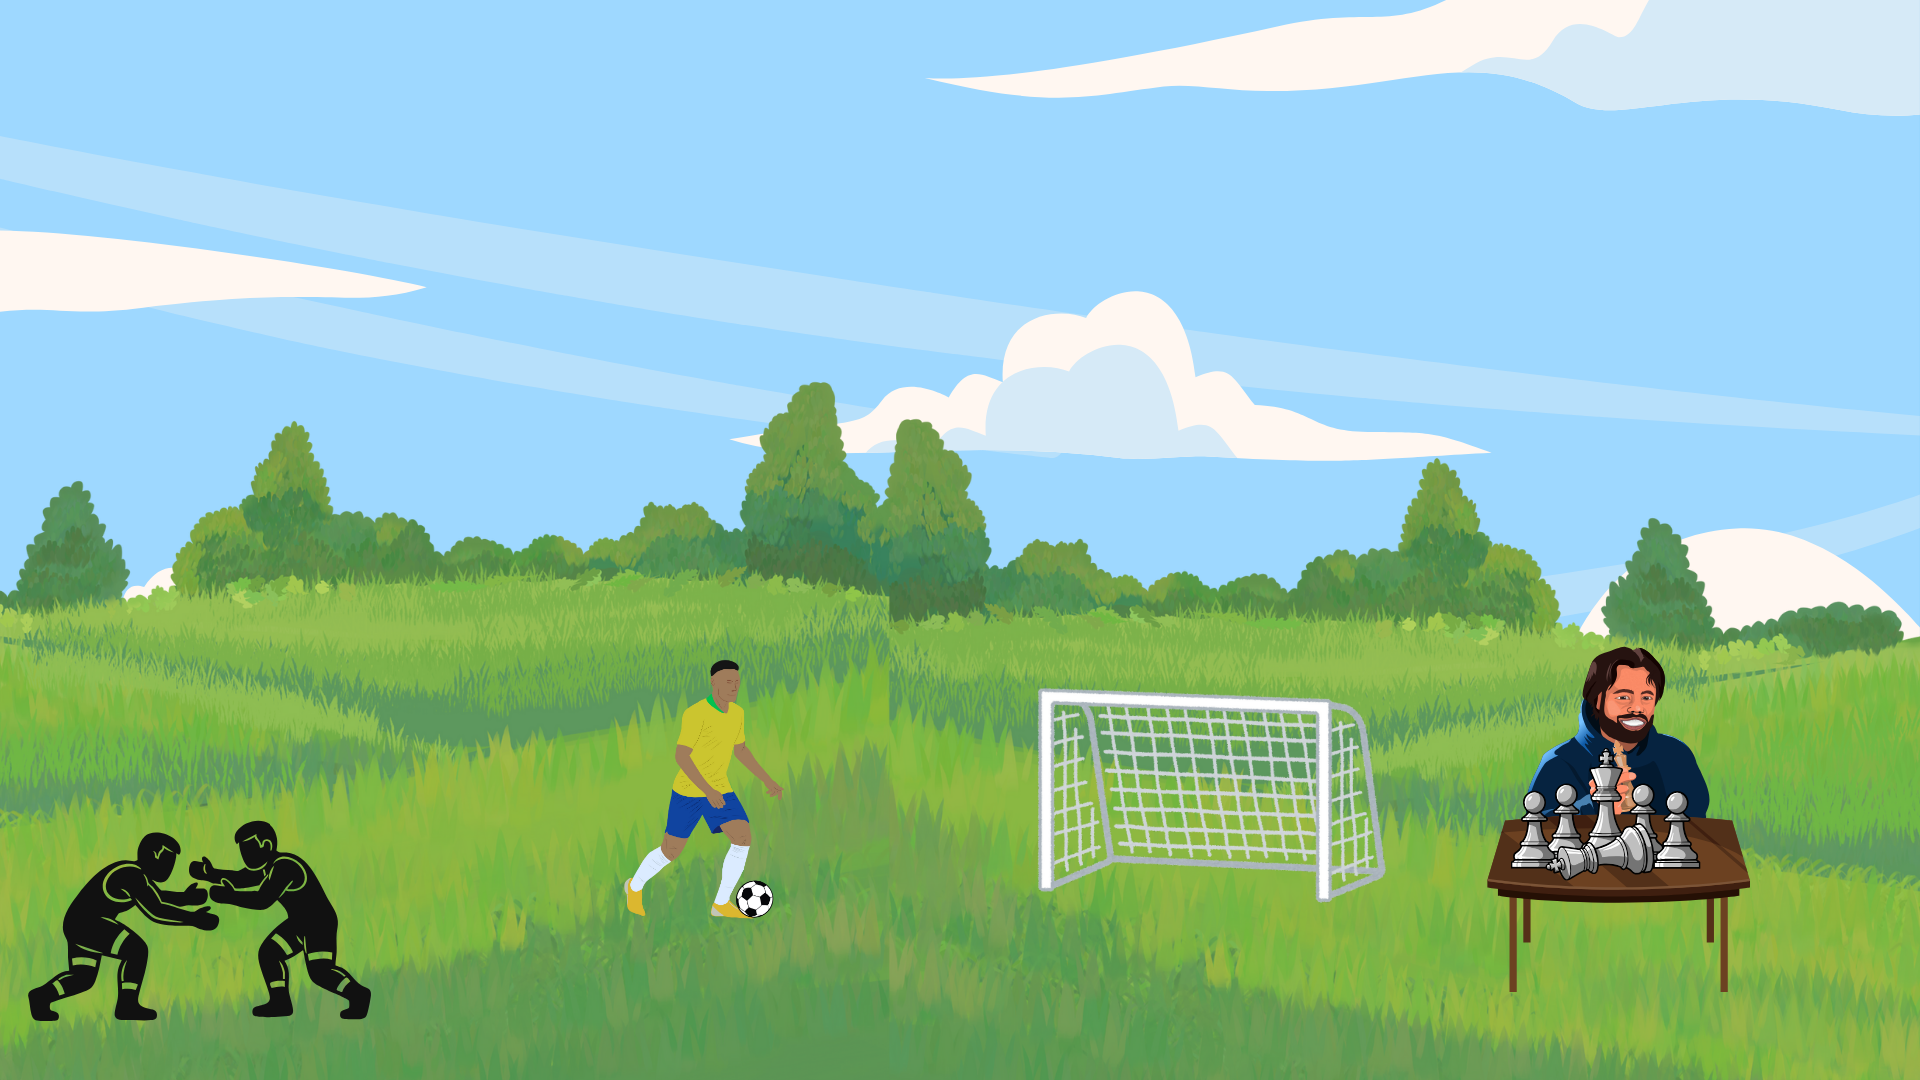
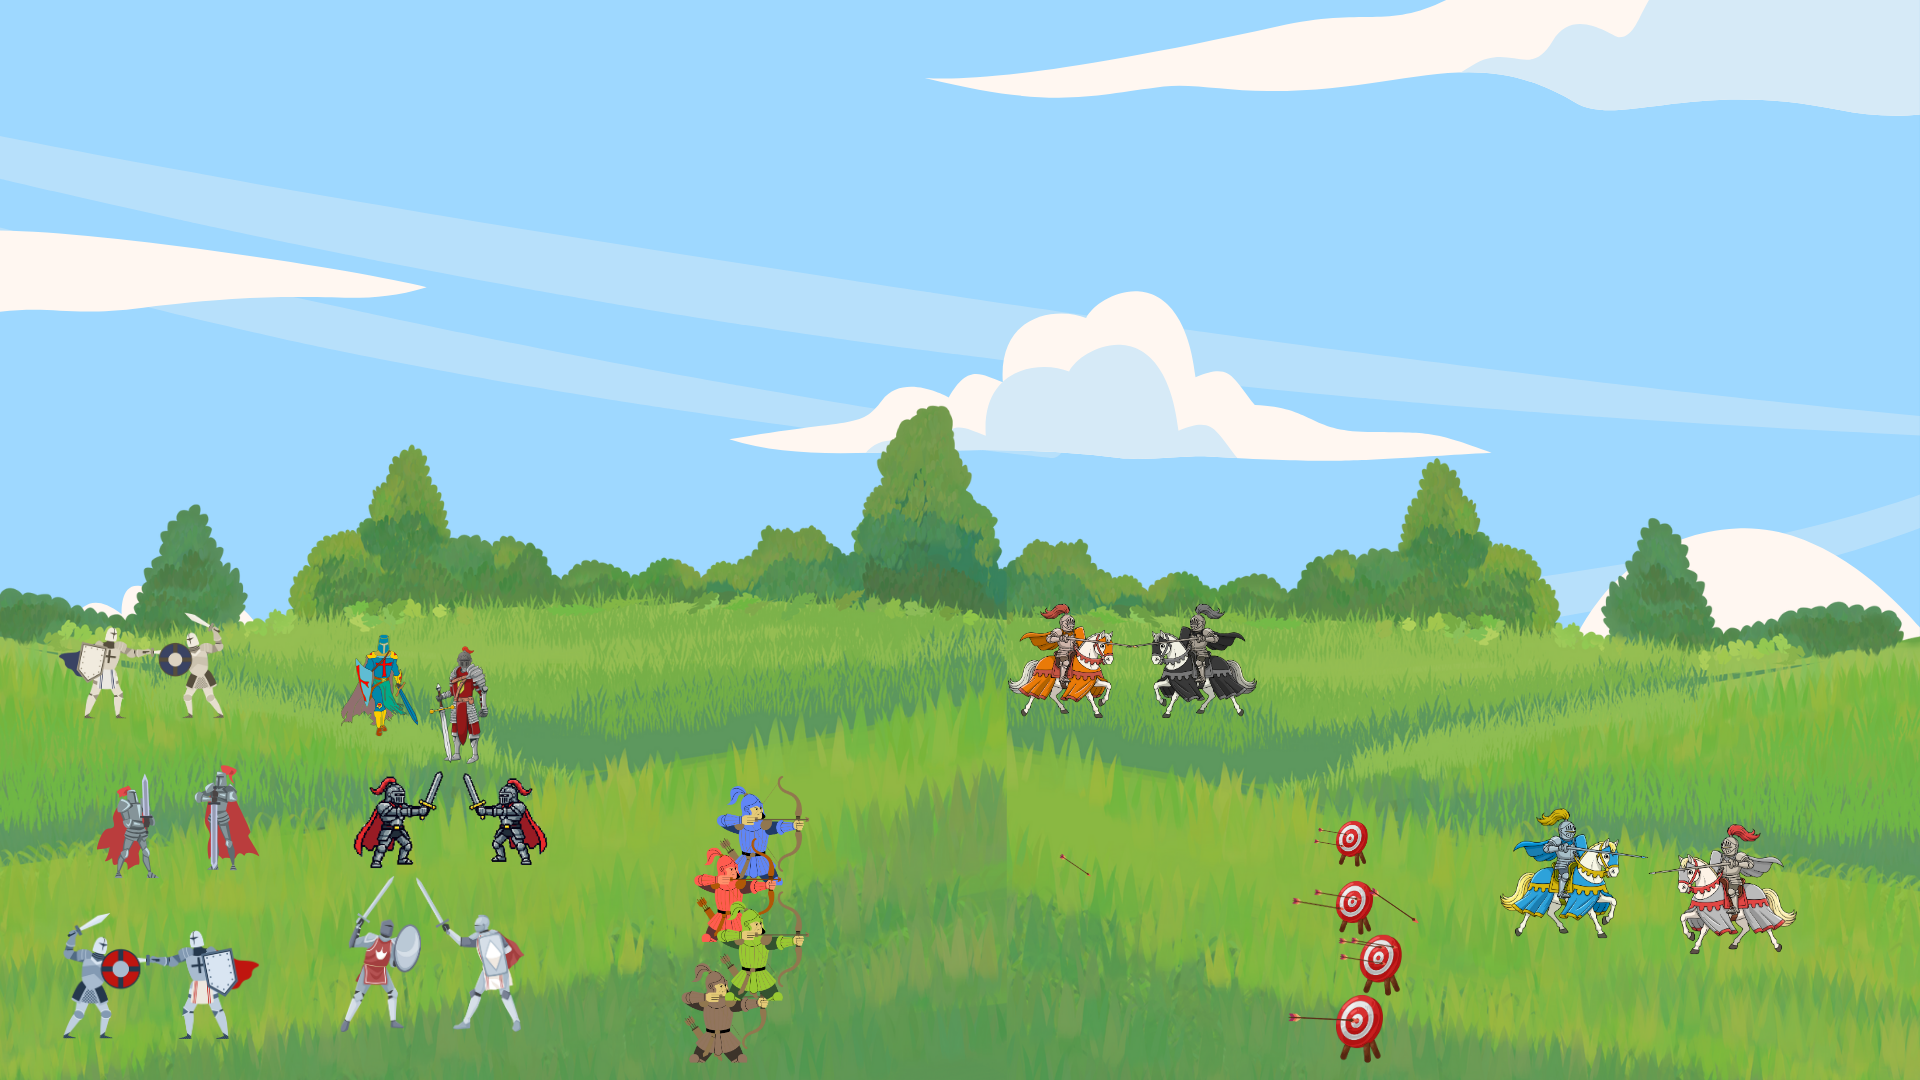
Add files via upload

Changed region(s): [[0.0, 0.3361, 0.75, 1.0], [0.75, 0.5806, 0.9375, 0.9167]]

diff --git a/Medival Project/scroll-gallery.html b/Medival Project/scroll-gallery.html
@@ -120,7 +120,7 @@
                 transform: translateX(0);
             }
             100% {
-                transform: translateX(-1300vw);
+                transform: translateX(-1400vw);
             }
         }
 
@@ -150,43 +150,46 @@
     <div class="gallery-container">
         <div class="scroll-wrapper" id="scrollWrapper">
             <div class="image-container">
-                <img src="Assests/1 The Role of Serfs & Medieval Far Tools .png" alt="Image 1">
+                <img src="Assests/1 The Role of Serfs & Medieval Farm Tools.png" alt="The Role of Serfs & Medieval Farm Tools">
             </div>
             <div class="image-container">
                 <img src="Assests/2 Manor (Donovan).png" alt="Manor (Donovan)">
             </div>
             <div class="image-container">
-                <img src="Assests/3 Crime and Punishment(Hassan).png" alt="Crime and Punishment(Hassan)">
+                <img src="Assests/3 Jobs.png" alt="Jobs">
             </div>
             <div class="image-container">
-                <img src="Assests/4 Worst Jobs.png" alt="Worst Jobs">
+                <img src="Assests/4 Crime and Punishment(Hassan).png" alt="Crime and Punishment (Hassan)">
             </div>
             <div class="image-container">
-                <img src="Assests/5.png" alt="Image 5">
+                <img src="Assests/5 Worst Jobs.png" alt="Worst Jobs">
             </div>
             <div class="image-container">
                 <img src="Assests/6.png" alt="Image 6">
             </div>
             <div class="image-container">
-                <img src="Assests/7 Castles and Fortification.png" alt="Castles and Fortification">
+                <img src="Assests/7 Medieval Entertainment and Sports.png" alt="Medieval Entertainment and Sports">
             </div>
             <div class="image-container">
-                <img src="Assests/8 Crusades Journey.png" alt="Crusades Journey">
+                <img src="Assests/8 Castles and Fortification.png" alt="Castles and Fortification">
             </div>
             <div class="image-container">
-                <img src="Assests/9 Crusades Fight.png" alt="Crusades Fight">
+                <img src="Assests/9 Crusades Journey.png" alt="Crusades Journey">
             </div>
             <div class="image-container">
-                <img src="Assests/10 Crusades Leaving.png" alt="Crusades Leaving">
+                <img src="Assests/10 Crusades Fight.png" alt="Crusades Fight">
             </div>
             <div class="image-container">
-                <img src="Assests/11 Children.png" alt="Children">
+                <img src="Assests/11 Crusades Leaving.png" alt="Crusades Leaving">
             </div>
             <div class="image-container">
-                <img src="Assests/12 Black Death.png" alt="Black Death">
+                <img src="Assests/12 Children.png" alt="Children">
             </div>
             <div class="image-container">
-                <img src="Assests/13 Church Lutaaya.png" alt="Church Lutaaya">
+                <img src="Assests/13 Black Death.png" alt="Black Death">
+            </div>
+            <div class="image-container">
+                <img src="Assests/14 Church Lutaaya.png" alt="Church Lutaaya">
             </div>
         </div>
     </div>
@@ -300,7 +303,8 @@
 
         // Keyboard shortcut: Press 'P' for presentation mode
         document.addEventListener('keydown', (e) => {
-            if (e.key === 'p' || e.key === 'P') {
+            if (e.key === 'p' || e.key === 'P' || e.key === 'F5') {
+                e.preventDefault();
                 enterPresentationMode();
             }
             if (e.key === 'Escape' && presentationMode) {
@@ -323,54 +327,42 @@
                 e.preventDefault();
                 if (currentImageIndex < totalImages - 1) {
                     currentImageIndex++;
-                    const targetX = -currentImageIndex * window.innerWidth;
-                    scrollWrapper.style.transition = 'transform 8s ease-in-out';
-                    scrollWrapper.style.transform = `translateX(${targetX}px)`;
+                    navigateToSlide(currentImageIndex);
                 }
             }
             if (e.key === 'ArrowLeft') {
                 e.preventDefault();
                 if (currentImageIndex > 0) {
                     currentImageIndex--;
-                    const targetX = -currentImageIndex * window.innerWidth;
-                    scrollWrapper.style.transition = 'transform 8s ease-in-out';
-                    scrollWrapper.style.transform = `translateX(${targetX}px)`;
+                    navigateToSlide(currentImageIndex);
                 }
             }
             if (e.key === 'ArrowDown') {
                 e.preventDefault();
                 if (currentImageIndex < totalImages - 1) {
                     currentImageIndex++;
-                    const targetX = -currentImageIndex * window.innerWidth;
-                    scrollWrapper.style.transition = 'transform 8s ease-in-out';
-                    scrollWrapper.style.transform = `translateX(${targetX}px)`;
+                    navigateToSlide(currentImageIndex);
                 }
             }
             if (e.key === 'ArrowUp') {
                 e.preventDefault();
                 if (currentImageIndex > 0) {
                     currentImageIndex--;
-                    const targetX = -currentImageIndex * window.innerWidth;
-                    scrollWrapper.style.transition = 'transform 8s ease-in-out';
-                    scrollWrapper.style.transform = `translateX(${targetX}px)`;
+                    navigateToSlide(currentImageIndex);
                 }
             }
             if (e.key === 'PageDown') {
                 e.preventDefault();
                 if (currentImageIndex < totalImages - 1) {
                     currentImageIndex++;
-                    const targetX = -currentImageIndex * window.innerWidth;
-                    scrollWrapper.style.transition = 'transform 8s ease-in-out';
-                    scrollWrapper.style.transform = `translateX(${targetX}px)`;
+                    navigateToSlide(currentImageIndex);
                 }
             }
             if (e.key === 'PageUp') {
                 e.preventDefault();
                 if (currentImageIndex > 0) {
                     currentImageIndex--;
-                    const targetX = -currentImageIndex * window.innerWidth;
-                    scrollWrapper.style.transition = 'transform 8s ease-in-out';
-                    scrollWrapper.style.transform = `translateX(${targetX}px)`;
+                    navigateToSlide(currentImageIndex);
                 }
             }
         });
@@ -445,6 +437,28 @@
             setTimeout(() => {
                 autoScroll();
             }, 100);
+        }
+
+        function navigateToSlide(slideIndex) {
+            // Special handling for slide 9 in presentation mode
+            if (presentationMode && slideIndex === 8) {
+                // Slide 9 (index 8) - auto scroll to slide 11 over 45 seconds
+                const startX = -8 * window.innerWidth;
+                const endX = -10 * window.innerWidth; // Slide 11 (index 10)
+                
+                scrollWrapper.style.transition = 'transform 45s linear';
+                scrollWrapper.style.transform = `translateX(${endX}px)`;
+                
+                // Update currentImageIndex after the transition
+                setTimeout(() => {
+                    currentImageIndex = 10;
+                }, 45000);
+            } else {
+                // Normal navigation
+                const targetX = -slideIndex * window.innerWidth;
+                scrollWrapper.style.transition = 'transform 2s ease-in-out';
+                scrollWrapper.style.transform = `translateX(${targetX}px)`;
+            }
         }
 
 

diff --git a/Medival Project/slideshow.html b/Medival Project/slideshow.html
@@ -121,40 +121,43 @@
             <img src="Assests/1 The Role of Serfs & Medieval Far Tools.png" alt="The Role of Serfs & Medieval Far Tools">
         </div>
         <div class="slide">
-            <img src="Assests/2 Manor (Donovan).png" alt="Manor (Donovan)">
+            <img src="Assests/2 Job.png" alt="Job">
         </div>
         <div class="slide">
-            <img src="Assests/3 Crime and Punishment(Hassan).png" alt="Crime and Punishment(Hassan)">
+            <img src="Assests/3 Manor (Donovan).png" alt="Manor (Donovan)">
         </div>
         <div class="slide">
-            <img src="Assests/4 Worst Jobs.png" alt="Worst Jobs">
+            <img src="Assests/4 Crime and Punishment(Hassan).png" alt="Crime and Punishment (Hassan)">
         </div>
         <div class="slide">
-            <img src="Assests/5.png" alt="Image 5">
+            <img src="Assests/5 Worst Jobs.png" alt="Worst Jobs">
         </div>
         <div class="slide">
             <img src="Assests/6.png" alt="Image 6">
         </div>
         <div class="slide">
-            <img src="Assests/7 Castles and Fortification.png" alt="Castles and Fortification">
+            <img src="Assests/7 Medieval Entertainment and Sports.png" alt="Medieval Entertainment and Sports">
         </div>
         <div class="slide">
-            <img src="Assests/8 Crusades Journey.png" alt="Crusades Journey">
+            <img src="Assests/8 Castles and Fortification.png" alt="Castles and Fortification">
         </div>
         <div class="slide">
-            <img src="Assests/9 Crusades Fight.png" alt="Crusades Fight">
+            <img src="Assests/9 Crusades Journey.png" alt="Crusades Journey">
         </div>
         <div class="slide">
-            <img src="Assests/10 Crusades Leaving.png" alt="Crusades Leaving">
+            <img src="Assests/10 Crusades Fight.png" alt="Crusades Fight">
         </div>
         <div class="slide">
-            <img src="Assests/11 Children.png" alt="Children">
+            <img src="Assests/11 Crusades Leaving.png" alt="Crusades Leaving">
         </div>
         <div class="slide">
-            <img src="Assests/12 Black Death.png" alt="Black Death">
+            <img src="Assests/12 Children.png" alt="Children">
         </div>
         <div class="slide">
-            <img src="Assests/13 Church Lutaaya.png" alt="Church Lutaaya">
+            <img src="Assests/13 Black Death.png" alt="Black Death">
+        </div>
+        <div class="slide">
+            <img src="Assests/14 Church Lutaaya.png" alt="Church Lutaaya">
         </div>
 
         <div class="dots">
@@ -171,6 +174,7 @@
             <span class="dot" onclick="currentSlide(11)"></span>
             <span class="dot" onclick="currentSlide(12)"></span>
             <span class="dot" onclick="currentSlide(13)"></span>
+            <span class="dot" onclick="currentSlide(14)"></span>
         </div>
 
         <div class="controls">
@@ -180,7 +184,7 @@
         </div>
 
         <div class="slide-counter">
-            <span id="current-slide">1</span> / 13
+            <span id="current-slide">1</span> / 14
         </div>
     </div>
 